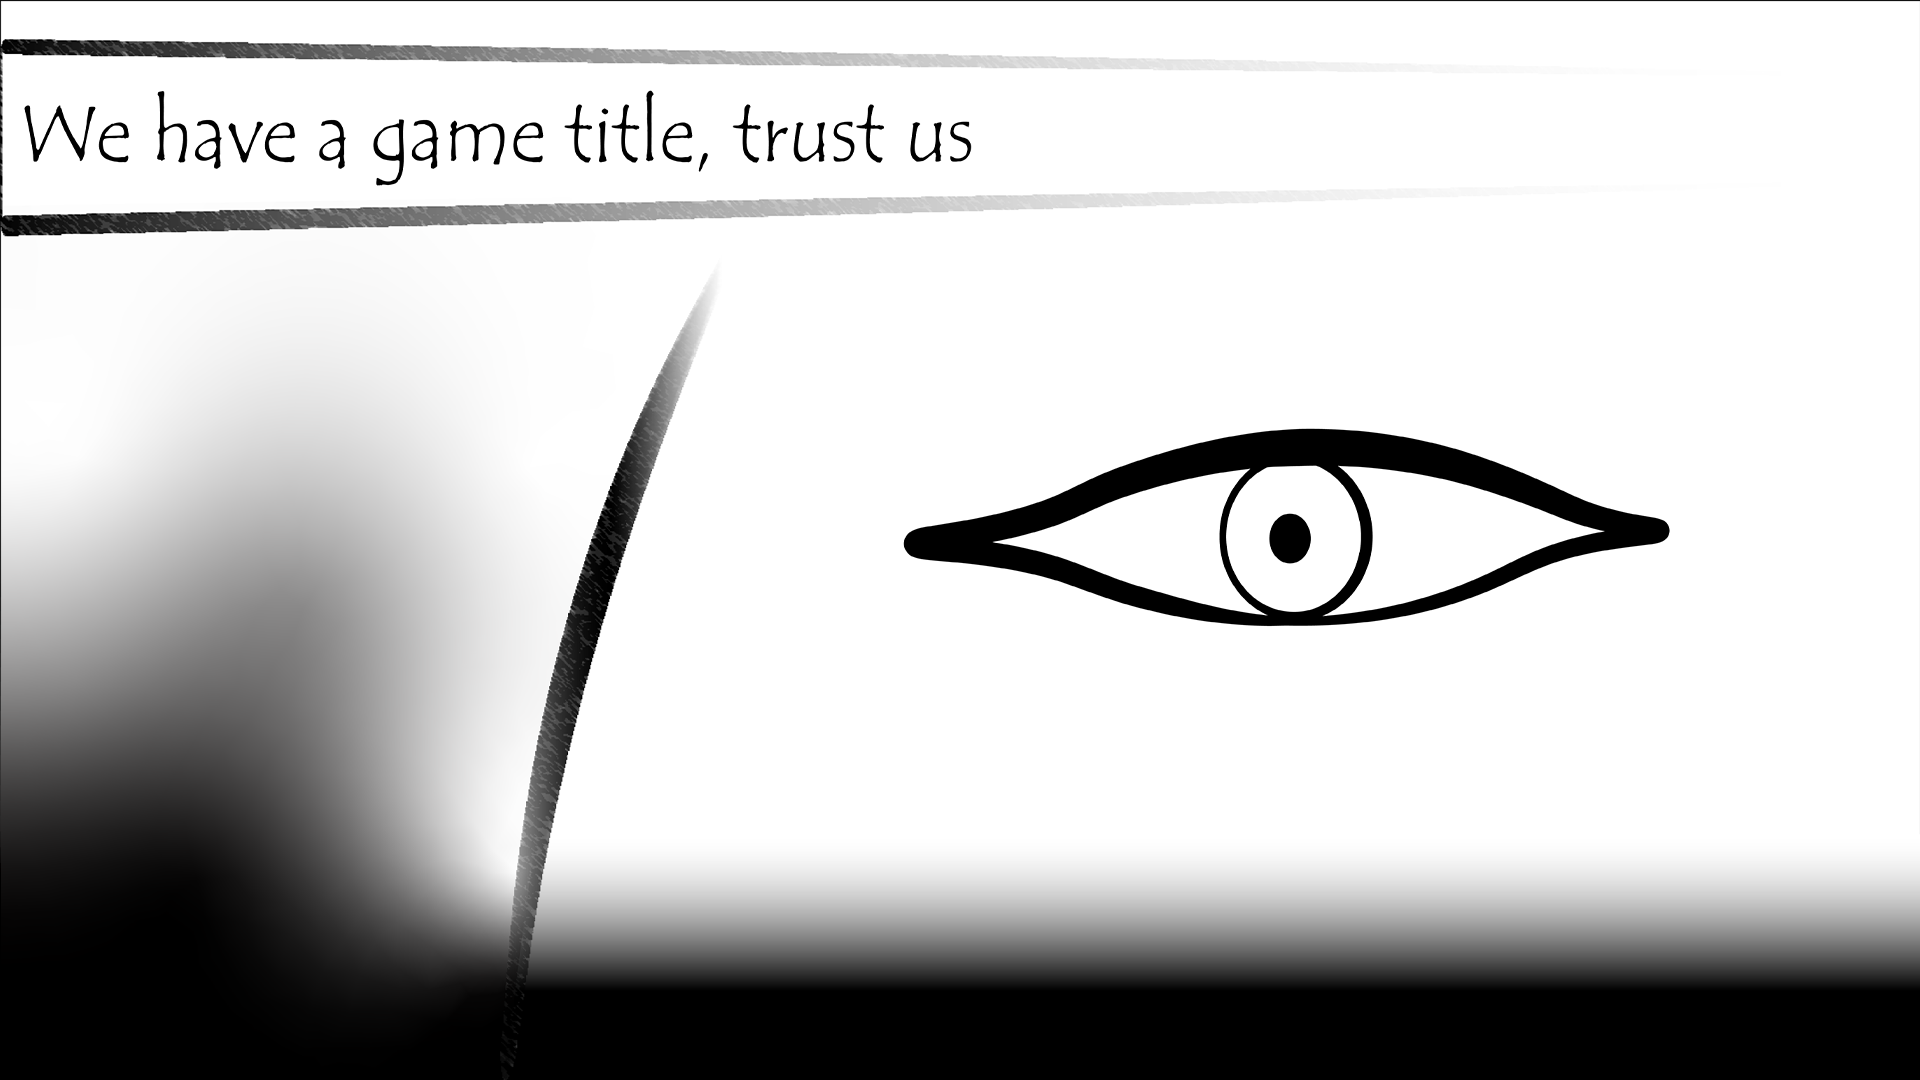
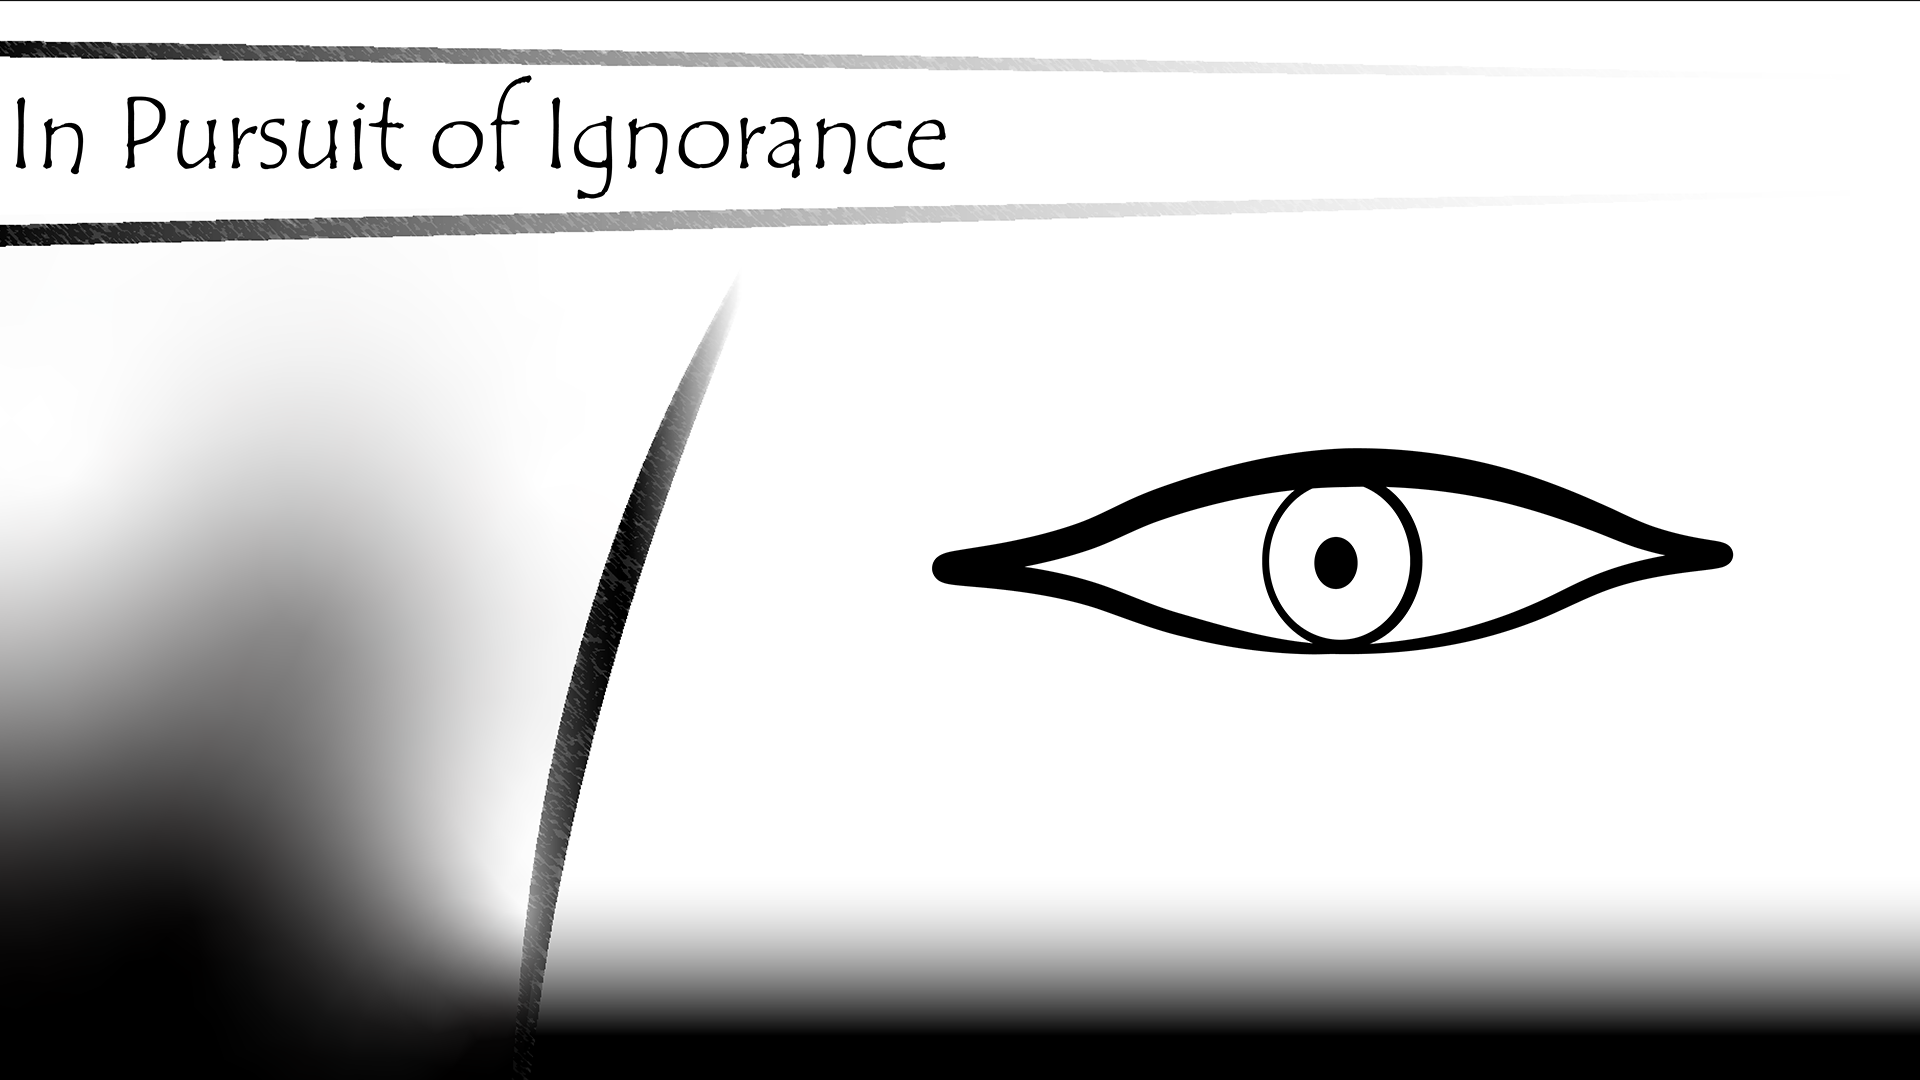
Added more art

diff --git a/core/src/com/mygdx/game/Menus/subMenus/JoinGame.java b/core/src/com/mygdx/game/Menus/subMenus/JoinGame.java
@@ -146,7 +146,7 @@ public class JoinGame implements Screen {
         switcher.setPosition(0, 1080/4f);
         switcher.setWidth(1920/5f*3);
         switcher.setHeight(1080/2f+25);
-        switcher.debug();
+        //switcher.debug();
 
 
 
@@ -181,7 +181,7 @@ public class JoinGame implements Screen {
             pane.setHeight(1080/2f+25);
             pane.setWidth(1920/5f*3);
             pane.setFadeScrollBars(false);
-            pane.debug();
+            //pane.debug();
 
             return pane;
         } else {
@@ -192,7 +192,7 @@ public class JoinGame implements Screen {
             serversFound.setWidth(1920/5f*3);
             serversFound.setAlignment(Align.center);
             serversFound.setFontScale(.5f);
-            serversFound.debug();
+            //serversFound.debug();
 
             return serversFound;
         }

diff --git a/core/src/com/mygdx/game/Game_Elements/Tiled.java b/core/src/com/mygdx/game/Game_Elements/Tiled.java
@@ -112,7 +112,7 @@ public class Tiled
         }
         else if(tileId <= Flipped90 + num.get(type)){
             tileId-= Flipped90;
-            Object image = new Object(this.image.get(type).get(String.valueOf(tileId)),new int[]{0,0},collide  );
+            Object image = new Object(this.image.get(type).get(String.valueOf(tileId)),new int[]{0,0},collide);
             image.setRotation(270);
             return image;
         }

diff --git a/core/src/com/mygdx/game/ui/widgets/menus/SelectionBar.java b/core/src/com/mygdx/game/ui/widgets/menus/SelectionBar.java
@@ -32,7 +32,7 @@ public class SelectionBar extends ButtonGroup {
         for(String Label: labels){
             SelectionButton button = new SelectionButton(Label, size, generator);
             button.center();
-            button.debug();
+            //button.debug();
             buttons.add(button);
             add(button);
             table.add(button).width(spacingX).height(spacingY).center();

diff --git a/desktop/src/com/mygdx/game/DesktopLauncher.java b/desktop/src/com/mygdx/game/DesktopLauncher.java
@@ -11,7 +11,7 @@ public class DesktopLauncher {
 		config.setForegroundFPS(60);
 		//config.setFullscreenMode(Lwjgl3ApplicationConfiguration.getDisplayMode());
 		config.setWindowedMode(1920, 1080);
-		config.setTitle("CPT 2024");
+		config.setTitle("In Pursuit of Ignorance");
 		config.setWindowIcon( Files.FileType.Internal,"game_Icon.png");
 		new Lwjgl3Application(new CPTGame(), config);
 

diff --git a/core/src/com/mygdx/game/Menus/subMenus/connectionMenu.java b/core/src/com/mygdx/game/Menus/subMenus/connectionMenu.java
@@ -128,6 +128,7 @@ public class connectionMenu implements Screen {
         //if a client connects send to the character selection screen
         if(connected){
             game.setScreen(new transitionScreen(this, () -> new characterSelection(game,saveFile), game));
+            connected = false;
         }
 
         stage.act(delta);

diff --git a/core/src/com/mygdx/game/ui/widgets/AutoFocusScrollpane.java b/core/src/com/mygdx/game/ui/widgets/AutoFocusScrollpane.java
@@ -18,6 +18,6 @@ public class AutoFocusScrollpane extends ScrollPane {
                 getStage().setScrollFocus(null);
             }
         });
-        debug();
+        //debug();
     }
 }
